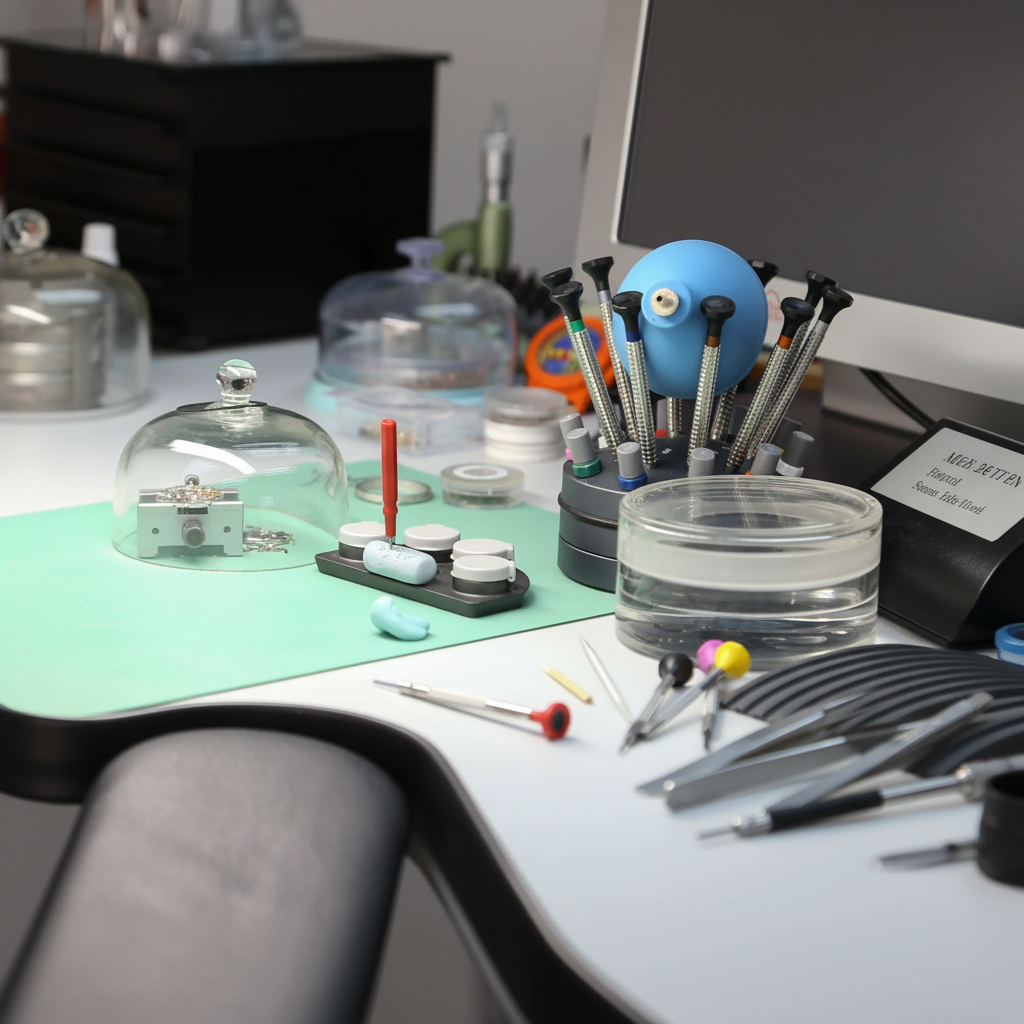
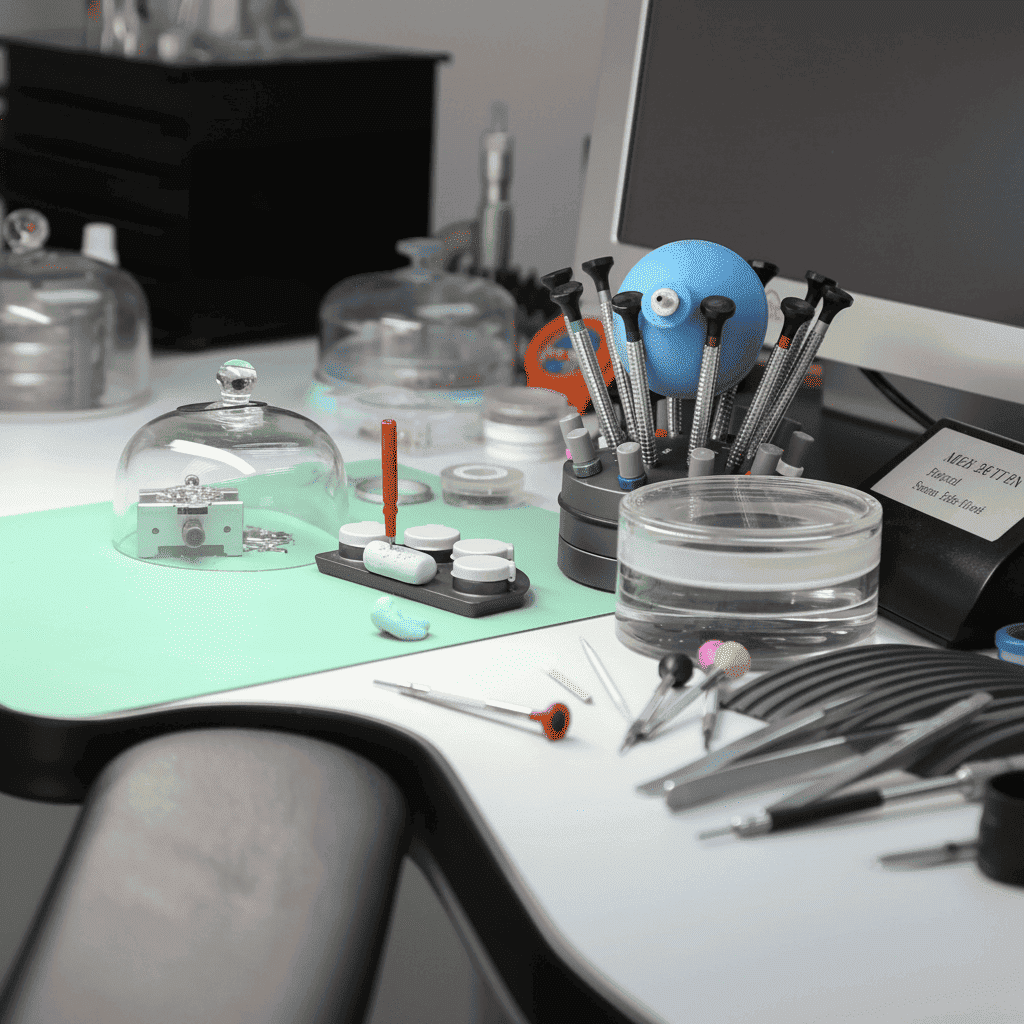
add images

diff --git a/public/css/components.css b/public/css/components.css
@@ -1163,6 +1163,23 @@
   border-left: 3px solid var(--color-accent);
 }
 
+/* ------------------------------------------------------------------
+   Parts Hero Image
+   ------------------------------------------------------------------ */
+.parts-hero-image {
+  margin-top: var(--space-8);
+  display: flex;
+  justify-content: center;
+}
+
+.parts-hero-image img {
+  width: 100%;
+  max-width: 400px;
+  height: auto;
+  border-radius: var(--radius-lg);
+  box-shadow: var(--shadow-lg);
+}
+
 /* Desktop (1024px+) */
 @media (min-width: 1024px) {
   .hero__title {
